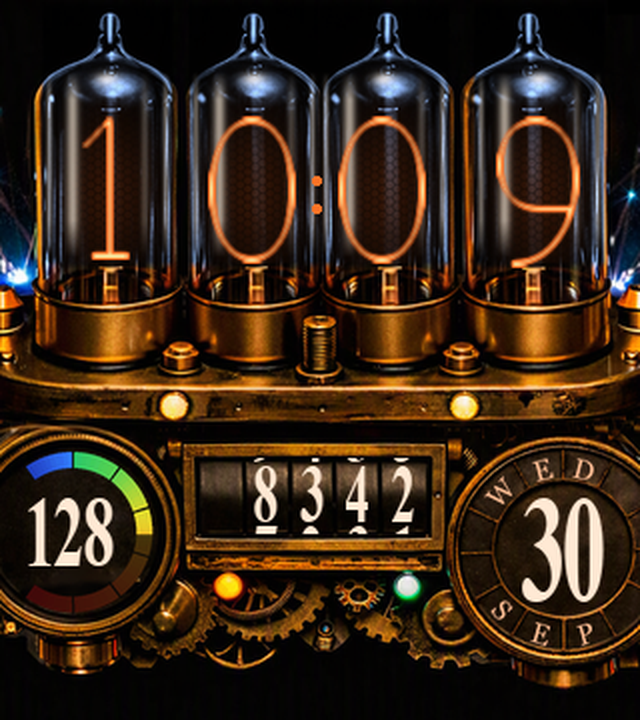
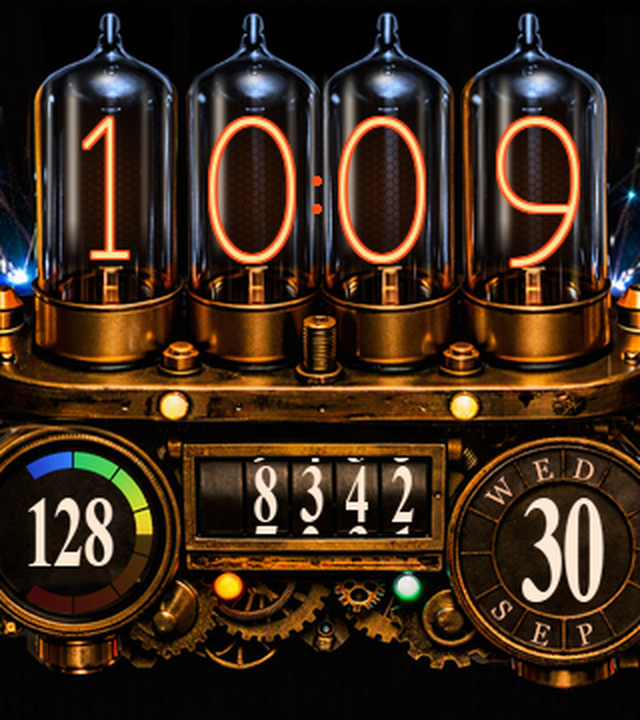
feat(ciq): natural-weight digits and a redder ring, for readability on the device
The user: "The digits are really hard to read on the device ... we need the digits
twice as thick and more red." The digits had shipped THIN - make_fonts eroded Nixie
One by 1 px per side to match a photo of a wire cathode - which measured 4.2 px of
stroke (glyph + its 1 px halo) at 5.0:1 against the glass, ~3 px of glyph at 74 px
ink, and the panel washed it out.

* make_fonts.py: NixieTime is back to the typeface's natural weight (thin=0), which
  measures 6.2 px at 6.2:1. `thick` joins `thin` as an argument, so one step fatter
  (9.0 px, 6.6:1) is one line if it is still not enough.
* tube_colour.py: INK_GLOW1/2 go redder, (255,118,38) -> (255,78,22). At a 3-6 px
  stroke the 1 px halo covers the outer pixels of the glyph, so the digit reads as
  the RING colour around a thin pale core - the ring, not INK_TIME, is what "the
  digits' colour" means, exactly as L63 found for the separator dots.

Changed region(s): [[0.3125, 0.1528, 0.6875, 0.3667], [0.75, 0.1528, 0.9062, 0.3972], [0.125, 0.1528, 0.2188, 0.3667]]

diff --git a/ciq/make_fonts.py b/ciq/make_fonts.py
@@ -29,12 +29,15 @@ SERIF_BD = r"C:\Windows\Fonts\timesbd.ttf"
 SERIF = r"C:\Windows\Fonts\georgia.ttf"
 
 
-def render_glyph(ch, px, condense, source=SERIF_BD, thin=0):
+def render_glyph(ch, px, condense, source=SERIF_BD, thin=0, thick=0):
     """Render one glyph to a tight grayscale mask, condensed horizontally.
 
-    `thin` erodes the stroke by that many px on each side (MinFilter + a small blur to put the
-    anti-aliasing back): the tube digits are a single wire cathode, and Nixie One's strokes are
-    ~2x heavier than the wire in the user's reference photograph.
+    `thin` erodes the stroke by that many px on each side and `thick` dilates it by that many:
+    Nixie One's natural weight is the middle of that range. The tube digits shipped THIN (1 px off
+    each side) to match a reference photograph of a wire cathode, and the user then reported them
+    "really hard to read on the device" - at 74 px ink on a 320 px screen the eroded stroke is ~3 px,
+    which the AMOLED plus the panel's own small-pixel behaviour washes out. `thin=0` restores the
+    natural weight (~6 px, twice the stroke) and `thick` goes past it.
     """
     f = ImageFont.truetype(source, px)
     pad = 6
@@ -49,15 +52,17 @@ def render_glyph(ch, px, condense, source=SERIF_BD, thin=0):
     g = canvas.crop(bbox)
     if thin > 0:
         g = g.filter(ImageFilter.MinFilter(2 * thin + 1)).filter(ImageFilter.GaussianBlur(0.5))
+    elif thick > 0:
+        g = g.filter(ImageFilter.MaxFilter(2 * thick + 1)).filter(ImageFilter.GaussianBlur(0.5))
     w = max(1, int(round(g.width * condense)))
     return g.resize((w, g.height), Image.LANCZOS)
 
 
-def build(name, specs, px, condense, source=SERIF_BD, tracking=1, thin=0):
+def build(name, specs, px, condense, source=SERIF_BD, tracking=1, thin=0, thick=0):
     """specs: list of (char, codepoint). Packs glyphs left-to-right, wrapping at 512 px."""
     glyphs = []
     for ch, cp in specs:
-        g = render_glyph(ch, px, condense, source, thin)
+        g = render_glyph(ch, px, condense, source, thin, thick)
         if g is not None:
             glyphs.append((ch, cp, g))
     if not glyphs:
@@ -123,10 +128,12 @@ def px_for_ink(source, ink):
     return round(200 * ink / (bb[3] - bb[1]))
 
 
-# NixieTime is THINNED to a wire: `thin=1` takes 1 px off each side of the stroke, which turns
-# Nixie One's ~5-6 px stems into the ~3 px single-wire cathode of the reference photograph.
+# NixieTime weight: NATURAL (thin=0). It shipped eroded by 1 px per side to match a reference photo
+# of a wire cathode, and the user reported the result "really hard to read on the device" - the
+# eroded stroke is ~3 px at 74 px ink and the panel washes it out. `thick=1` dilates if it is ever
+# wanted heavier than the typeface's own weight.
 t_atlas, t_glyphs = build("NixieTime", DIGITS, px=px_for_ink(NIXIE_ONE, 75 * TOP_K),
-                          condense=0.80, source=NIXIE_ONE, thin=1)   # ~75 px digits, tubes
+                          condense=0.80, source=NIXIE_ONE)          # ~75 px digits, tubes
 # NixieDay: the date dial's day number. The weekday and month moved out to the dial's ring
 # (make_date_ring.py), which freed the inner disc for a bigger number: 54 px ink (user-approved,
 # artwork/date_ring/_compare.png). Was NixieSmall at px 61 / 42 px ink.

diff --git a/ciq/tube_colour.py b/ciq/tube_colour.py
@@ -33,9 +33,11 @@ INK_TARGET = {
     "INK_TIME": (252, 226, 150),    # core: hot yellow-white
     # The glow is STATIC at the bright baseline (user decision): the ring no longer pulses, so it is
     # stored at the colour the pulse used to reach at its peak. No headroom is needed now that
-    # nothing scales it.
-    "INK_GLOW1": (255, 118, 38),    # the single halo ring, at the bright baseline
-    "INK_GLOW2": (255, 118, 38),    # unused while GLOW_RAD1 == GLOW_RAD2 (the view skips the outer ring)
+    # nothing scales it. The ring moved RED (user: "more red" on the device, after the digits proved
+    # hard to read) - a 1 px halo around the glyph is most of what the digit's colour IS at this
+    # size, so the ring, not the pale core, is the colour to push.
+    "INK_GLOW1": (255, 78, 22),     # the single halo ring, at the bright baseline
+    "INK_GLOW2": (255, 78, 22),     # unused while GLOW_RAD1 == GLOW_RAD2 (the view skips the outer ring)
 }
 
 
